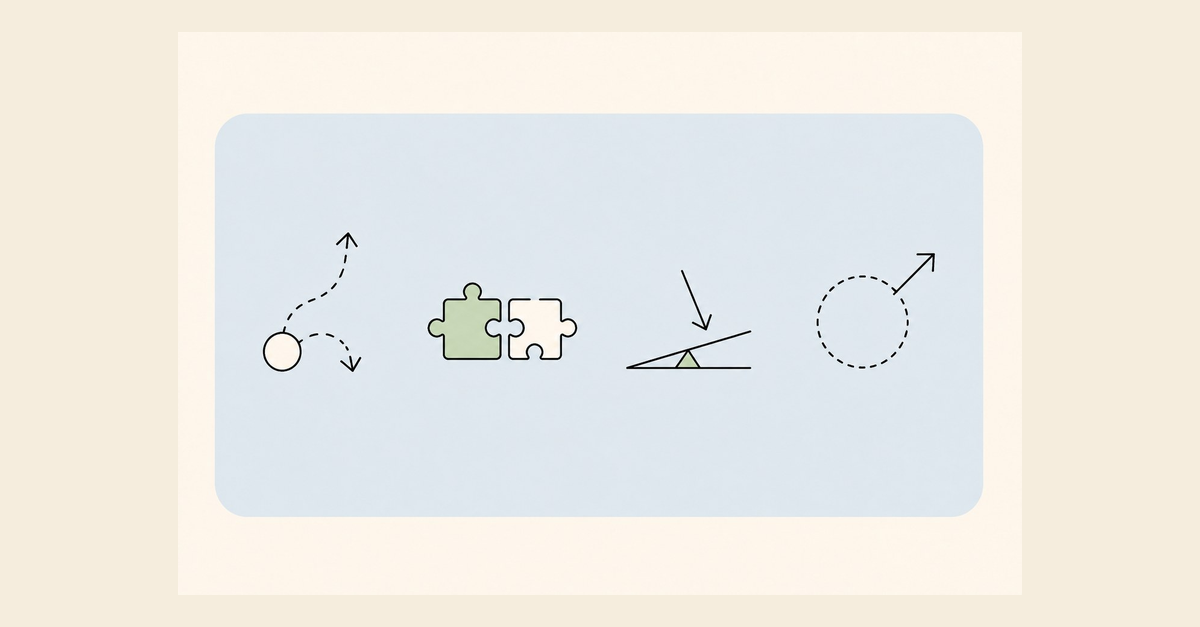
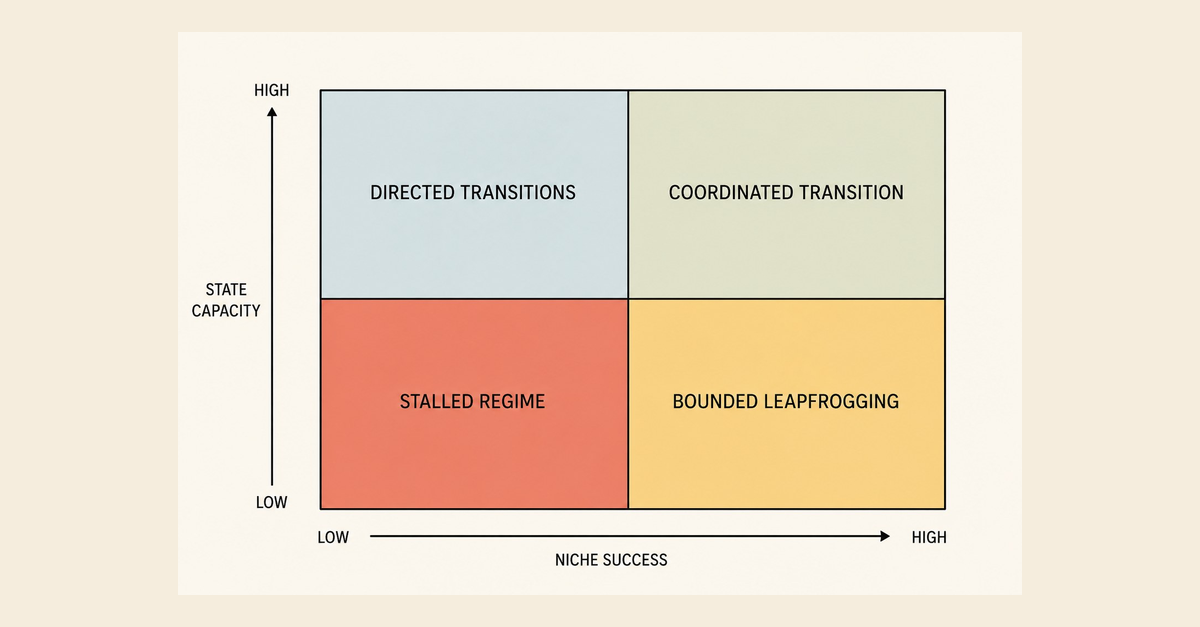
Swap /insight-transitions-outcomes hero back to the labelled 2x2 matrix
The four-icons diagram didn't carry the argument the article makes; the
State Capacity vs Niche Success matrix with the four named quadrants
does. Hero image, /articles thumbnail and OG share card all swapped from
insight-transitions-outcomes-diagram.jpg back to
insight-transitions-matrix.jpg.

diff --git a/insight-transitions-outcomes.html b/insight-transitions-outcomes.html
@@ -108,8 +108,8 @@
 <p>Most writing on socio-technical transitions treats them as a race between an incumbent regime and a challenger niche. That framing is not wrong, but it hides the variable that tends to decide the pace and the fairness of the outcome: what the state is doing while the niche is trying to break through. A country can have world-leading niche innovation and still stall if the public architecture around it is thin; another can have deep state capacity and no niche worth aligning it to. The interesting configurations are the ones where both are moving, or neither.</p>
 <p>The Lab's shorthand for that reading is the two-axis matrix below. It draws on the long-running <a href="https://transitionsnetwork.org/about-strn/what-is-sustainability-transitions-research/" target="_blank" rel="noopener">multi-level perspective</a> on socio-technical transitions and on the parallel literature on <a href="https://commission.europa.eu/topics/eu-competitiveness/draghi-report_en" target="_blank" rel="noopener">state capacity and industrial policy</a>, and locates every transition case the Lab has studied somewhere on it.</p>
 <figure>
-  <img src="/assets/img/insight-transitions-outcomes-diagram.jpg" alt="Line-art panel of four small symbols representing four distinct transition outcomes: a splitting dashed arrow (a decision to be made), two puzzle pieces fitting together (coordination), a tilted lever on a fulcrum (a weakened or imbalanced regime), and a dashed circle from which an arrow escapes (a bounded trajectory that eventually breaks out)." class="diagram">
-  <figcaption>Every real transition sits in one of four patterns. The two on the left describe how the state acts; the two on the right describe what the niche can do about it when the state does not.</figcaption>
+  <img src="/assets/img/insight-transitions-matrix.jpg" alt="Two-axis matrix charting Transitions Outcomes by Niche Success (x-axis, low to high) against State Capacity (y-axis, low to high). Four labelled quadrants: Directed Transitions (high state, low niche); Coordinated Transition (high state, high niche); Stalled Regime (low state, low niche); Bounded Leapfrogging (low state, high niche)." class="diagram">
+  <figcaption>State capacity on the vertical axis, niche success on the horizontal. Every real transition sits in one of the four quadrants; where it lands decides which levers actually shift it.</figcaption>
 </figure>
 <hr>
 <h2>Directed Transition (high state, low niche)</h2>

diff --git a/articles.html b/articles.html
@@ -321,7 +321,7 @@
       <p class="article-desc">Incumbents carrying their capabilities into the new regime is a good story about competence and a much harder one about conduct. Why capability is verified and routine is not.</p>
     </div>
   </div><div class="article-item has-thumb" data-category="transitions" data-geography="global" data-month="2026-04">
-    <a class="article-thumb-link" href="/insight-transitions-outcomes"><img class="article-thumb" src="/assets/img/insight-transitions-outcomes-diagram.jpg" alt="Four small icons: a splitting arrow, two puzzle pieces, a tilted lever, and a dashed circle with an escaping arrow — one symbol for each of the four transition outcomes."></a>
+    <a class="article-thumb-link" href="/insight-transitions-outcomes"><img class="article-thumb" src="/assets/img/insight-transitions-matrix.jpg" alt="Two-axis matrix: State Capacity on the vertical, Niche Success on the horizontal. Four quadrants: Directed Transitions, Coordinated Transition, Stalled Regime, Bounded Leapfrogging."></a>
     <div class="article-body">
       <a class="article-title" href="/insight-transitions-outcomes">Four Ways a Transition Lands: Reading State Capacity Against Niche Success</a>
       <div class="article-meta">12 April 2026</div>

diff --git a/content/insight-transitions-outcomes.md b/content/insight-transitions-outcomes.md
@@ -11,8 +11,8 @@ Most writing on socio-technical transitions treats them as a race between an inc
 The Lab's shorthand for that reading is the two-axis matrix below. It draws on the long-running [multi-level perspective](https://transitionsnetwork.org/about-strn/what-is-sustainability-transitions-research/) on socio-technical transitions and on the parallel literature on [state capacity and industrial policy](https://commission.europa.eu/topics/eu-competitiveness/draghi-report_en), and locates every transition case the Lab has studied somewhere on it.
 
 <figure>
-  <img src="/assets/img/insight-transitions-outcomes-diagram.jpg" alt="Line-art panel of four small symbols representing four distinct transition outcomes: a splitting dashed arrow (a decision to be made), two puzzle pieces fitting together (coordination), a tilted lever on a fulcrum (a weakened or imbalanced regime), and a dashed circle from which an arrow escapes (a bounded trajectory that eventually breaks out)." class="diagram">
-  <figcaption>Every real transition sits in one of four patterns. The two on the left describe how the state acts; the two on the right describe what the niche can do about it when the state does not.</figcaption>
+  <img src="/assets/img/insight-transitions-matrix.jpg" alt="Two-axis matrix charting Transitions Outcomes by Niche Success (x-axis, low to high) against State Capacity (y-axis, low to high). Four labelled quadrants: Directed Transitions (high state, low niche); Coordinated Transition (high state, high niche); Stalled Regime (low state, low niche); Bounded Leapfrogging (low state, high niche)." class="diagram">
+  <figcaption>State capacity on the vertical axis, niche success on the horizontal. Every real transition sits in one of the four quadrants; where it lands decides which levers actually shift it.</figcaption>
 </figure>
 
 ---

diff --git a/content/articles.md b/content/articles.md
@@ -225,7 +225,7 @@ The Lab publishes articles for the same reason it takes on any research: some qu
       <p class="article-desc">Incumbents carrying their capabilities into the new regime is a good story about competence and a much harder one about conduct. Why capability is verified and routine is not.</p>
     </div>
   </div><div class="article-item has-thumb" data-category="transitions" data-geography="global" data-month="2026-04">
-    <a class="article-thumb-link" href="/insight-transitions-outcomes"><img class="article-thumb" src="/assets/img/insight-transitions-outcomes-diagram.jpg" alt="Four small icons: a splitting arrow, two puzzle pieces, a tilted lever, and a dashed circle with an escaping arrow — one symbol for each of the four transition outcomes."></a>
+    <a class="article-thumb-link" href="/insight-transitions-outcomes"><img class="article-thumb" src="/assets/img/insight-transitions-matrix.jpg" alt="Two-axis matrix: State Capacity on the vertical, Niche Success on the horizontal. Four quadrants: Directed Transitions, Coordinated Transition, Stalled Regime, Bounded Leapfrogging."></a>
     <div class="article-body">
       <a class="article-title" href="/insight-transitions-outcomes">Four Ways a Transition Lands: Reading State Capacity Against Niche Success</a>
       <div class="article-meta">12 April 2026</div>
